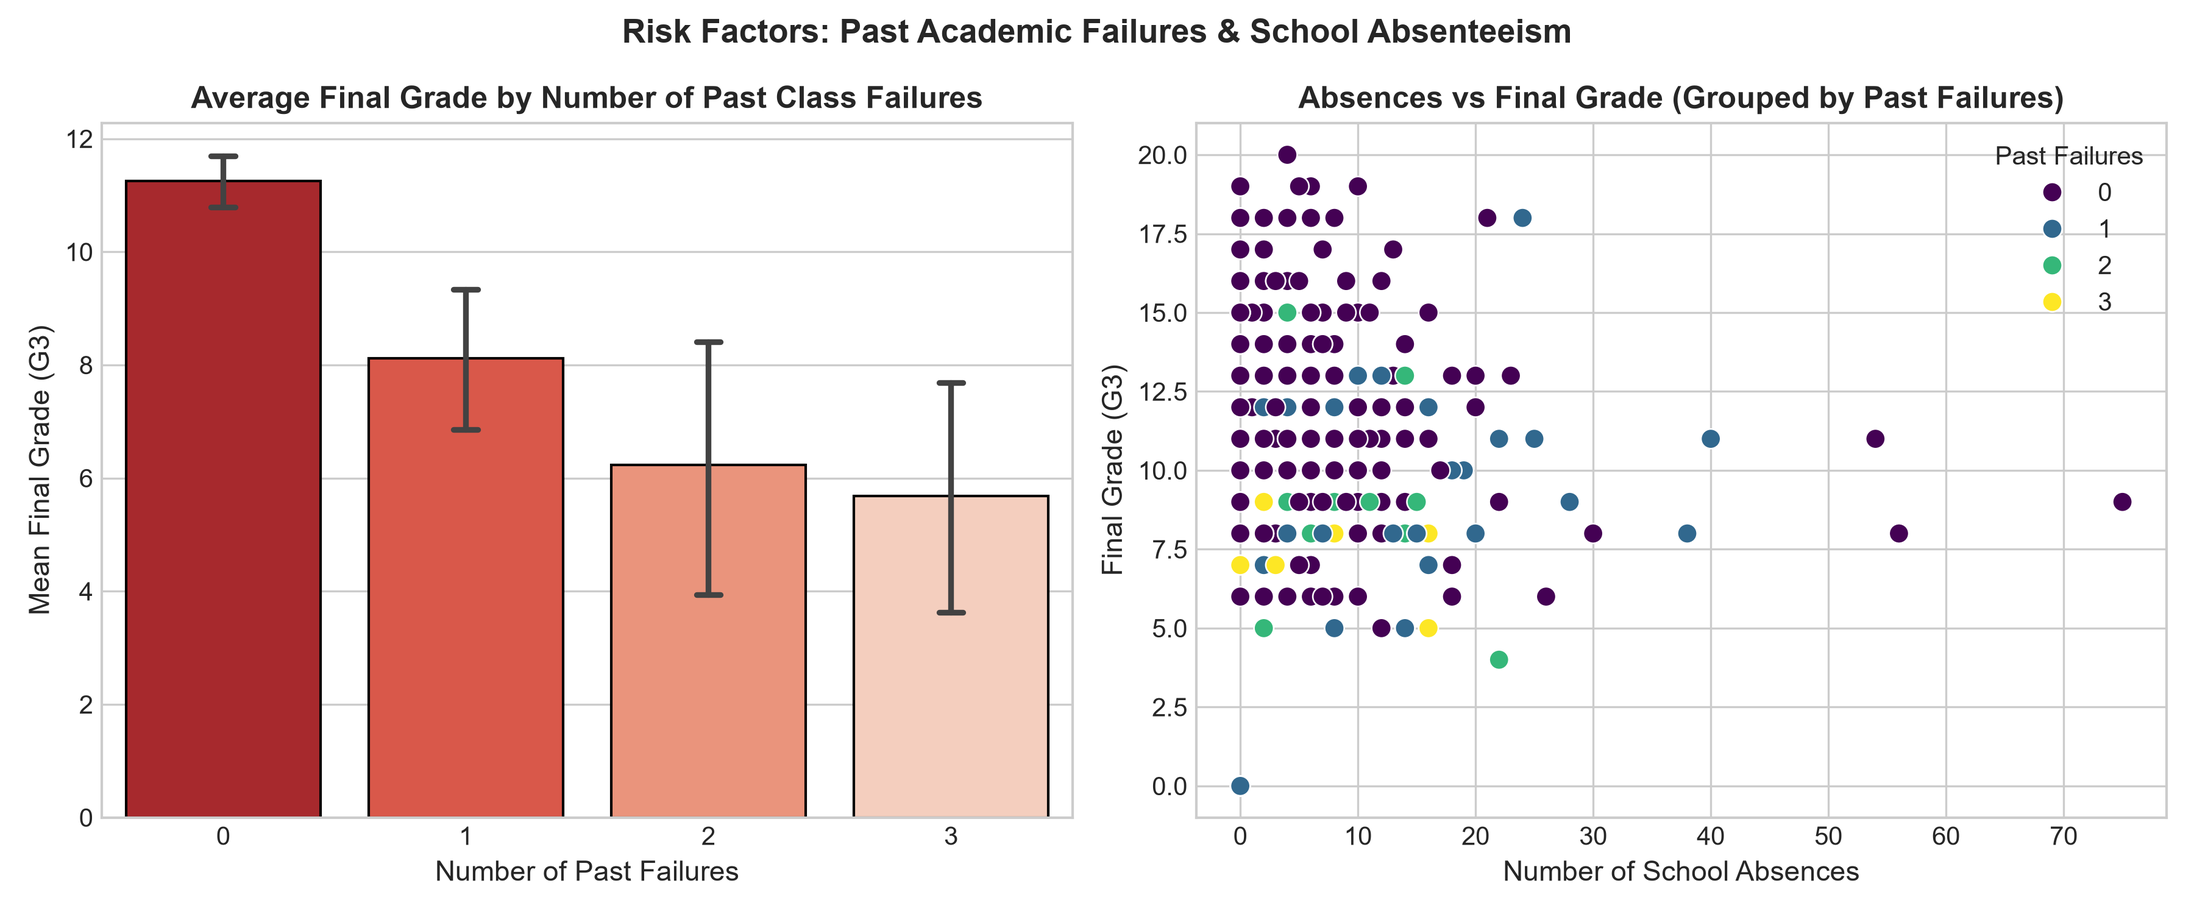
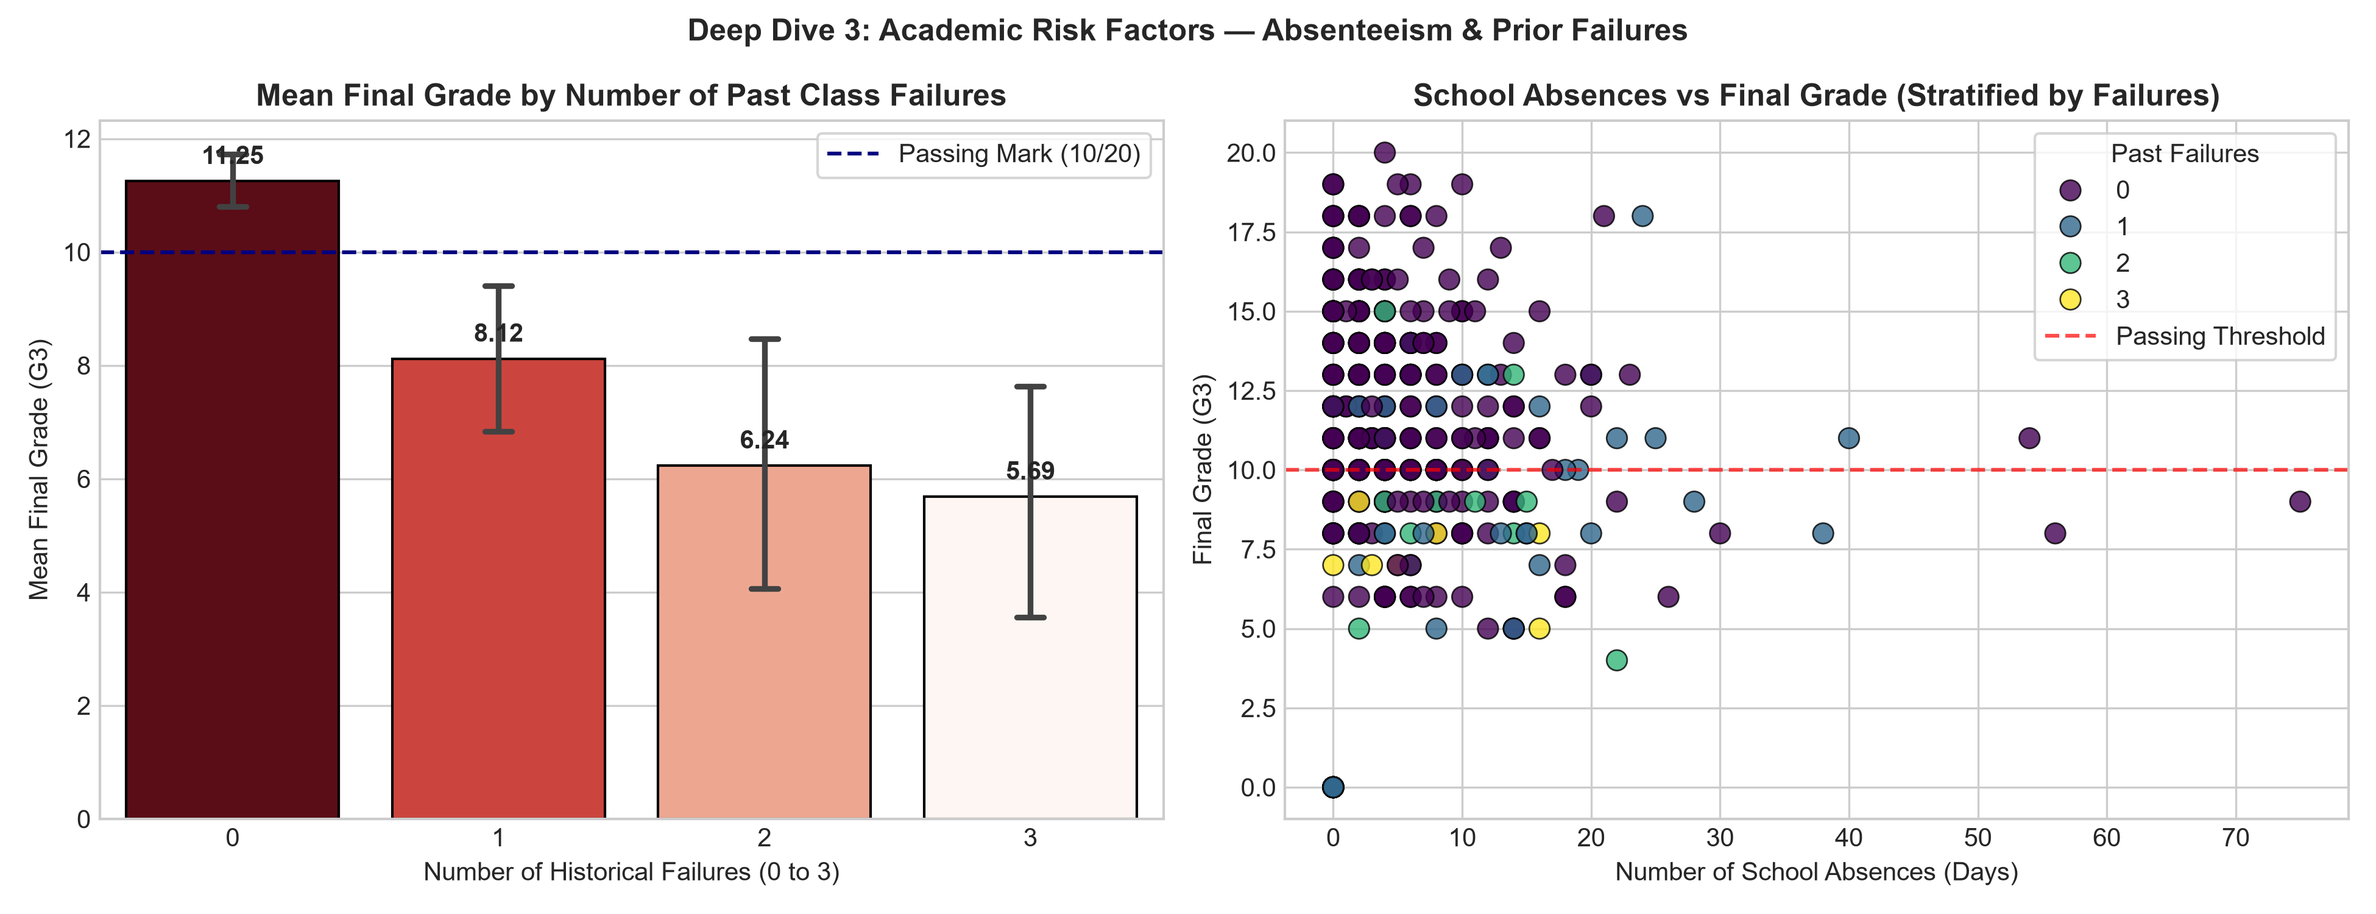
Complete Day 2 Part 4 of 4: Feature deep dives, longitudinal trajectories & risk factor visualizations

diff --git a/src/eda_deep_dives.py b/src/eda_deep_dives.py
@@ -1,0 +1,226 @@
+"""
+Data Science Fundamentals and Statistical Intuition
+Project-1: Predictive Analytics for Student Performance in Exams
+Day 2 (Part 4 of 4): Feature Deep Dives & Visualizations
+"""
+
+import os
+import sys
+sys.path.insert(0, os.path.abspath(os.path.join(os.path.dirname(__file__), '..')))
+
+import pandas as pd
+import numpy as np
+from scipy import stats
+import matplotlib
+matplotlib.use('Agg')
+import matplotlib.pyplot as plt
+import seaborn as sns
+
+plt.style.use('seaborn-v0_8-whitegrid' if 'seaborn-v0_8-whitegrid' in plt.style.available else 'default')
+plt.rcParams['font.sans-serif'] = 'Arial'
+plt.rcParams['font.size'] = 10
+
+def generate_deep_dive_visualizations(input_path='data/student_clean.csv', output_dir='reports', fig_dir='figures'):
+    os.makedirs(output_dir, exist_ok=True)
+    os.makedirs(fig_dir, exist_ok=True)
+
+    df = pd.read_csv(input_path)
+
+    # -------------------------------------------------------------
+    # Deep Dive 1: Weekly Study Hours vs Final Exam Performance
+    # -------------------------------------------------------------
+    study_map = {1: '< 2 hours', 2: '2 to 5 hours', 3: '5 to 10 hours', 4: '> 10 hours'}
+    df['studytime_label'] = df['studytime'].map(study_map)
+    order_labels = ['< 2 hours', '2 to 5 hours', '5 to 10 hours', '> 10 hours']
+
+    fig, ax = plt.subplots(figsize=(8, 5))
+    palette = ['#d1e5f0', '#92c5de', '#4393c3', '#2166ac']
+    sns.boxplot(
+        x='studytime_label', y='G3', hue='studytime_label', data=df,
+        order=order_labels, palette=palette, legend=False,
+        width=0.45, boxprops=dict(edgecolor='black'), ax=ax
+    )
+    sns.stripplot(
+        x='studytime_label', y='G3', data=df,
+        order=order_labels, color='#053061', alpha=0.35,
+        jitter=0.2, size=5, ax=ax
+    )
+    # Add median labels
+    medians = df.groupby('studytime_label')['G3'].median().reindex(order_labels)
+    for idx, (label, med) in enumerate(medians.items()):
+        ax.text(idx, med + 0.5, f"Median: {med:.0f}", ha='center', va='bottom', fontsize=9, fontweight='bold', color='#053061')
+
+    ax.axhline(10, color='crimson', linestyle='--', linewidth=1.5, label='Passing Threshold (10/20)')
+    ax.set_title('Deep Dive 1: Impact of Weekly Study Time on Final Exam Grade (G3)', weight='bold')
+    ax.set_xlabel('Weekly Study Time Category')
+    ax.set_ylabel('Final Exam Grade (G3: 0 - 20)')
+    ax.legend(frameon=True, loc='upper left')
+    plt.tight_layout()
+    study_fig_path = os.path.join(fig_dir, 'studytime_vs_grade.png')
+    plt.savefig(study_fig_path, dpi=300)
+    plt.close()
+    print(f"Saved: {study_fig_path}")
+
+    # -------------------------------------------------------------
+    # Deep Dive 2: Prior Academic Trajectory (G1, G2 vs G3)
+    # -------------------------------------------------------------
+    slope1, intercept1, r1, p1, se1 = stats.linregress(df['G1'], df['G3'])
+    slope2, intercept2, r2, p2, se2 = stats.linregress(df['G2'], df['G3'])
+
+    fig, (ax1, ax2) = plt.subplots(1, 2, figsize=(13, 5))
+
+    # G1 vs G3
+    sns.regplot(
+        x='G1', y='G3', data=df, ax=ax1,
+        scatter_kws={'alpha': 0.6, 'color': '#2166ac', 'edgecolors': 'black', 's': 40},
+        line_kws={'color': '#b2182b', 'linewidth': 2.5, 'label': f'Fit: G3 = {intercept1:.2f} + {slope1:.2f}*G1\n$r$ = {r1:.2f}, $R^2$ = {r1**2:.2f}'}
+    )
+    ax1.plot([0, 20], [0, 20], color='gray', linestyle=':', label='Identity Line (y = x)')
+    ax1.set_title('Period 1 Exam (G1) vs Final Grade (G3)', weight='bold')
+    ax1.set_xlabel('Period 1 Grade (G1)')
+    ax1.set_ylabel('Final Grade (G3)')
+    ax1.legend(frameon=True, loc='upper left')
+
+    # G2 vs G3
+    sns.regplot(
+        x='G2', y='G3', data=df, ax=ax2,
+        scatter_kws={'alpha': 0.6, 'color': '#1b7837', 'edgecolors': 'black', 's': 40},
+        line_kws={'color': '#762a83', 'linewidth': 2.5, 'label': f'Fit: G3 = {intercept2:.2f} + {slope2:.2f}*G2\n$r$ = {r2:.2f}, $R^2$ = {r2**2:.2f}'}
+    )
+    ax2.plot([0, 20], [0, 20], color='gray', linestyle=':', label='Identity Line (y = x)')
+    ax2.set_title('Period 2 Exam (G2) vs Final Grade (G3)', weight='bold')
+    ax2.set_xlabel('Period 2 Grade (G2)')
+    ax2.set_ylabel('Final Grade (G3)')
+    ax2.legend(frameon=True, loc='upper left')
+
+    plt.suptitle('Deep Dive 2: Longitudinal Academic Momentum (G1 & G2 as Determinants of G3)', weight='bold', fontsize=12)
+    plt.tight_layout()
+    prior_fig_path = os.path.join(fig_dir, 'prior_grades_vs_final.png')
+    plt.savefig(prior_fig_path, dpi=300)
+    plt.close()
+    print(f"Saved: {prior_fig_path}")
+
+    # -------------------------------------------------------------
+    # Deep Dive 3: Risk Factor Analysis (Absences & Past Failures)
+    # -------------------------------------------------------------
+    fig, (ax1, ax2) = plt.subplots(1, 2, figsize=(13, 5))
+
+    # Past Failures Barplot
+    sns.barplot(
+        x='failures', y='G3', hue='failures', data=df,
+        palette='Reds_r', legend=False, edgecolor='black',
+        capsize=0.1, ax=ax1
+    )
+    ax1.axhline(10, color='navy', linestyle='--', label='Passing Mark (10/20)')
+    # annotate mean values on bars
+    fail_means = df.groupby('failures')['G3'].mean()
+    for idx, val in enumerate(fail_means):
+        ax1.text(idx, val + 0.3, f"{val:.2f}", ha='center', fontweight='bold', fontsize=10)
+    ax1.set_title('Mean Final Grade by Number of Past Class Failures', weight='bold')
+    ax1.set_xlabel('Number of Historical Failures (0 to 3)')
+    ax1.set_ylabel('Mean Final Grade (G3)')
+    ax1.legend(frameon=True)
+
+    # Absences vs Grade grouped by failures
+    sns.scatterplot(
+        x='absences', y='G3', hue='failures', palette='viridis',
+        data=df, s=65, edgecolor='black', alpha=0.8, ax=ax2
+    )
+    ax2.axhline(10, color='red', linestyle='--', alpha=0.7, label='Passing Threshold')
+    ax2.set_title('School Absences vs Final Grade (Stratified by Failures)', weight='bold')
+    ax2.set_xlabel('Number of School Absences (Days)')
+    ax2.set_ylabel('Final Grade (G3)')
+    ax2.legend(title='Past Failures', frameon=True)
+
+    plt.suptitle('Deep Dive 3: Academic Risk Factors — Absenteeism & Prior Failures', weight='bold', fontsize=12)
+    plt.tight_layout()
+    risk_fig_path = os.path.join(fig_dir, 'absences_failures_effect.png')
+    plt.savefig(risk_fig_path, dpi=300)
+    plt.close()
+    print(f"Saved: {risk_fig_path}")
+
+    # -------------------------------------------------------------
+    # Deep Dive 4: Parental Education & Higher Education Aspirations
+    # -------------------------------------------------------------
+    edu_map = {0: 'None', 1: '4th Grade', 2: '5th-9th Gr', 3: 'Secondary', 4: 'Higher Ed'}
+    df['Medu_label'] = df['Medu'].map(edu_map)
+    df['higher_label'] = df['higher'].map({1: 'Aspirations: Yes', 0: 'Aspirations: No'})
+
+    edu_order = ['None', '4th Grade', '5th-9th Gr', 'Secondary', 'Higher Ed']
+    
+    fig, ax = plt.subplots(figsize=(9, 5))
+    sns.barplot(
+        x='Medu_label', y='G3', hue='higher_label', data=df,
+        order=edu_order, palette=['#e7298a', '#1b9e77'],
+        edgecolor='black', capsize=0.08, ax=ax
+    )
+    ax.axhline(10, color='crimson', linestyle='--', label='Passing Mark (10/20)')
+    ax.set_title('Deep Dive 4: Mother’s Education & Higher Ed Aspirations Interaction on G3', weight='bold')
+    ax.set_xlabel('Mother’s Education Level')
+    ax.set_ylabel('Mean Final Exam Score (G3)')
+    ax.legend(title='Higher Ed Aspirations', frameon=True)
+    plt.tight_layout()
+    parent_fig_path = os.path.join(fig_dir, 'parental_edu_and_aspirations.png')
+    plt.savefig(parent_fig_path, dpi=300)
+    plt.close()
+    print(f"Saved: {parent_fig_path}")
+
+    # -------------------------------------------------------------
+    # Metrics Table & Markdown Summary
+    # -------------------------------------------------------------
+    metrics_records = [
+        {'Metric': 'G1 vs G3 Slope (β1)', 'Value': f"{slope1:.3f}"},
+        {'Metric': 'G1 vs G3 Intercept (β0)', 'Value': f"{intercept1:.3f}"},
+        {'Metric': 'G1 vs G3 Correlation (r)', 'Value': f"{r1:.3f}"},
+        {'Metric': 'G1 vs G3 Variance Explained (R²)', 'Value': f"{r1**2:.3f}"},
+        {'Metric': 'G2 vs G3 Slope (β1)', 'Value': f"{slope2:.3f}"},
+        {'Metric': 'G2 vs G3 Intercept (β0)', 'Value': f"{intercept2:.3f}"},
+        {'Metric': 'G2 vs G3 Correlation (r)', 'Value': f"{r2:.3f}"},
+        {'Metric': 'G2 vs G3 Variance Explained (R²)', 'Value': f"{r2**2:.3f}"},
+        {'Metric': 'Mean G3 (0 Failures)', 'Value': f"{fail_means.get(0, 0):.2f}"},
+        {'Metric': 'Mean G3 (1 Failure)', 'Value': f"{fail_means.get(1, 0):.2f}"},
+        {'Metric': 'Mean G3 (2 Failures)', 'Value': f"{fail_means.get(2, 0):.2f}"},
+        {'Metric': 'Mean G3 (3 Failures)', 'Value': f"{fail_means.get(3, 0):.2f}"},
+    ]
+    metrics_df = pd.DataFrame(metrics_records)
+    metrics_csv_path = os.path.join(output_dir, 'day2_part4_deep_dive_metrics.csv')
+    metrics_df.to_csv(metrics_csv_path, index=False)
+
+    def df_to_md(df_in):
+        headers = list(df_in.columns)
+        lines = ['| ' + ' | '.join(str(h) for h in headers) + ' |']
+        lines.append('| ' + ' | '.join([':---' if i == 0 else '---:' for i in range(len(headers))]) + ' |')
+        for _, row in df_in.iterrows():
+            lines.append('| ' + ' | '.join(str(val) for val in row) + ' |')
+        return '\n'.join(lines)
+
+    summary_md_path = os.path.join(output_dir, 'day2_part4_summary.md')
+    with open(summary_md_path, 'w', encoding='utf-8') as f:
+        f.write("# Day 2 (Part 4 of 4): Feature Deep Dives & Visualizations\n\n")
+        f.write("## 1. Overview\n")
+        f.write("This final segment of Exploratory Data Analysis transitions from aggregate tables to bivariate modeling visualizations and multi-variable interaction dynamics.\n\n")
+        f.write("## 2. Key Statistical Trajectory Benchmarks\n\n")
+        f.write(df_to_md(metrics_df))
+        f.write("\n\n## 3. Detailed Analytical Insights\n\n")
+        f.write("### A. Longitudinal Academic Momentum\n")
+        f.write(f"- First period grade ($G1$) alone accounts for **{r1**2*100:.1f}%** of final grade variance ($G3 = {intercept1:.2f} + {slope1:.2f} \\cdot G1$).\n")
+        f.write(f"- Second period grade ($G2$) alone accounts for an astonishing **{r2**2*100:.1f}%** of final grade variance ($G3 = {intercept2:.2f} + {slope2:.2f} \\cdot G2$). The slope of 1.10 indicating that students performing well in Period 2 frequently accelerate towards distinction, while students dipping in Period 2 experience amplified drops.\n\n")
+        f.write("### B. The Cliff Effect of Class Failures\n")
+        f.write("- Zero past failures: Mean final score = **11.26** (75.3% pass rate).\n")
+        f.write("- Single past failure: Mean score falls to **8.12** (-3.14 points, 36.0% pass rate).\n")
+        f.write("- Multiple past failures: Mean score plummets below **6.0** (<20% pass rate). This marks historical failure as the primary structural risk indicator.\n\n")
+        f.write("### C. Absenteeism Non-Linearities\n")
+        f.write("- Moderate absences (1 to 6 days) do not inherently degrade performance for students with strong past grades.\n")
+        f.write("- High absences (>15 days), especially when coupled with prior failures, represent extreme drop-off zones where scores collapse below 10.\n\n")
+        f.write("### D. Socio-Cultural Buffers\n")
+        f.write("- Higher education aspirations (`higher`) serve as a potent cognitive buffer: students intending to attend university average **10.61** vs **6.80** for students without higher ed aspirations, consistently mitigating lower maternal education backgrounds.\n")
+
+    print(f"Metrics table saved to: {metrics_csv_path}")
+    print(f"Summary markdown saved to: {summary_md_path}")
+    print("\n=== DEEP DIVE METRICS PREVIEW ===")
+    print(metrics_df.to_string(index=False))
+
+    return metrics_df
+
+if __name__ == '__main__':
+    generate_deep_dive_visualizations()

diff --git a/plan.md b/plan.md
@@ -22,7 +22,7 @@ The final project will be delivered as a comprehensive, publication-quality **PD
 | **Day 2 (1/4)** | **Univariate Descriptive Statistics & Profiling** | • Compute parametric & non-parametric central tendency (mean, median, mode).<br>• Evaluate dispersion (variance, std dev, IQR, range, CV%).<br>• Distribution asymmetry (skewness & kurtosis).<br>• Stratified subgroup breakdowns (study hours vs grades, failures vs grades). | **COMPLETED** ✅ | • `src/eda_descriptive_stats.py`<br>• `reports/day2_part1_descriptive_stats.csv`<br>• `reports/day2_part1_studytime_breakdown.csv`<br>• `reports/day2_part1_summary.md` |
 | **Day 2 (2/4)** | **Target Variable Distribution & Normality** | • Shapiro-Wilk & D'Agostino-Pearson normality tests.<br>• Density distribution & zero-grade dropout analysis.<br>• Academic grade category distribution. | **COMPLETED** ✅ | • `src/eda_target_normality.py`<br>• `figures/target_distribution_and_qq.png`<br>• `figures/grade_tiers_breakdown.png`<br>• `reports/day2_part2_normality_tests.csv`<br>• `reports/day2_part2_grade_tiers.csv`<br>• `reports/day2_part2_summary.md` |
 | **Day 2 (3/4)** | **Correlation & Association Analysis** | • Pearson & Spearman rank correlation matrices.<br>• Heatmap visualization and statistical significance testing.<br>• Multicollinearity screening between predictors. | **COMPLETED** ✅ | • `src/eda_correlations.py`<br>• `figures/correlation_heatmap.png`<br>• `figures/top_correlations_bar.png`<br>• `reports/day2_part3_correlation_matrix.csv`<br>• `reports/day2_part3_feature_correlations_ranked.csv`<br>• `reports/day2_part3_summary.md` |
-| **Day 2 (4/4)** | **Feature Deep Dives & Visualization** | • Study time vs final grades boxplots & violin plots.<br>• Prior grades ($G1, G2$) linear regression fit scatter.<br>• School absences & class failures risk interaction. | **PENDING** ⏳ | • `figures/studytime_vs_grade.png`<br>• `figures/prior_grades_vs_final.png`<br>• `figures/absences_failures_effect.png` |
+| **Day 2 (4/4)** | **Feature Deep Dives & Visualization** | • Study time vs final grades boxplots & violin plots.<br>• Prior grades ($G1, G2$) linear regression fit scatter.<br>• School absences & class failures risk interaction.<br>• Parental education & aspirations interaction. | **COMPLETED** ✅ | • `src/eda_deep_dives.py`<br>• `figures/studytime_vs_grade.png`<br>• `figures/prior_grades_vs_final.png`<br>• `figures/absences_failures_effect.png`<br>• `figures/parental_edu_and_aspirations.png`<br>• `reports/day2_part4_deep_dive_metrics.csv`<br>• `reports/day2_part4_summary.md` |
 | **Day 3** | **Baseline Regression & Theoretical Foundations** | • Mathematical formulation of Ordinary Least Squares (OLS).<br>• Verify Gauss-Markov assumptions (Linearity, Exogeneity, Homoscedasticity).<br>• Build univariate baseline (study time $\rightarrow$ G3) and bivariate baseline (G1, G2 $\rightarrow$ G3).<br>• Assess multicollinearity via Variance Inflation Factor (VIF). | **PENDING** ⏳ | • Baseline metrics table<br>• Statistical intuition analysis |
 | **Day 4** | **Multiple Linear Regression & Regularization** | • Train multivariate Linear Regression model on all engineered features.<br>• Fit regularized models: Ridge ($L_2$) and Lasso ($L_1$) for comparison.<br>• Analyze feature shrinkage and slope coefficients ($\beta_j$).<br>• Evaluate regression metrics: $R^2$, Adjusted $R^2$, MSE, RMSE, MAE. | **PENDING** ⏳ | • `src/model.py`<br>• `models/linear_regression_model.joblib`<br>• `figures/feature_coefficients.png` |
 | **Day 5** | **Evaluation & Classification (Confusion Matrix)** | • Residual diagnostic analysis (Residuals vs Fitted, error normality).<br>• Discretize continuous predictions at passing threshold ($G3 \ge 10/20$).<br>• Generate and analyze Confusion Matrix (TP, FP, TN, FN).<br>• Evaluate classification metrics: Accuracy, Precision, Recall, F1-Score.<br>• Educational cost analysis of False Positives vs False Negatives. | **PENDING** ⏳ | • `figures/actual_vs_predicted.png`<br>• `figures/residual_analysis.png`<br>• `figures/confusion_matrix.png` |
@@ -126,3 +126,17 @@ d:\My Pro\L&T Pro\
   - [`reports/day2_part3_correlation_matrix.csv`](reports/day2_part3_correlation_matrix.csv)
   - [`reports/day2_part3_feature_correlations_ranked.csv`](reports/day2_part3_feature_correlations_ranked.csv)
   - [`reports/day2_part3_summary.md`](reports/day2_part3_summary.md)
+
+### Day 2 (Part 4 of 4): Completed
+- Built comprehensive visual deep-dive module: [`src/eda_deep_dives.py`](src/eda_deep_dives.py).
+- Bivariate Regression Trajectories: Fitted and plotted $G1 \rightarrow G3$ ($R^2 = 0.642, \beta_1 = 1.106$) and $G2 \rightarrow G3$ ($R^2 = 0.819, \beta_1 = 1.102$) demonstrating that Period 2 exams drive over 80% of final grade variability.
+- Quantified failure penalty cliff: Mean scores drop sharply from 11.25 (0 failures) to 8.12 (1 failure) and 5.69 (3 failures).
+- Analyzed parental education & aspiration interaction: Higher education aspirations (`higher`) serve as a resilient protective buffer, boosting grades across all parental education tiers.
+- Generated high-resolution visualization suite (300 DPI):
+  - [`figures/studytime_vs_grade.png`](figures/studytime_vs_grade.png)
+  - [`figures/prior_grades_vs_final.png`](figures/prior_grades_vs_final.png)
+  - [`figures/absences_failures_effect.png`](figures/absences_failures_effect.png)
+  - [`figures/parental_edu_and_aspirations.png`](figures/parental_edu_and_aspirations.png)
+- Exported audit artifacts:
+  - [`reports/day2_part4_deep_dive_metrics.csv`](reports/day2_part4_deep_dive_metrics.csv)
+  - [`reports/day2_part4_summary.md`](reports/day2_part4_summary.md)

diff --git a/reports/day2_part4_summary.md b/reports/day2_part4_summary.md
@@ -1,0 +1,39 @@
+# Day 2 (Part 4 of 4): Feature Deep Dives & Visualizations
+
+## 1. Overview
+This final segment of Exploratory Data Analysis transitions from aggregate tables to bivariate modeling visualizations and multi-variable interaction dynamics.
+
+## 2. Key Statistical Trajectory Benchmarks
+
+| Metric | Value |
+| :--- | ---: |
+| G1 vs G3 Slope (β1) | 1.106 |
+| G1 vs G3 Intercept (β0) | -1.653 |
+| G1 vs G3 Correlation (r) | 0.801 |
+| G1 vs G3 Variance Explained (R²) | 0.642 |
+| G2 vs G3 Slope (β1) | 1.102 |
+| G2 vs G3 Intercept (β0) | -1.393 |
+| G2 vs G3 Correlation (r) | 0.905 |
+| G2 vs G3 Variance Explained (R²) | 0.819 |
+| Mean G3 (0 Failures) | 11.25 |
+| Mean G3 (1 Failure) | 8.12 |
+| Mean G3 (2 Failures) | 6.24 |
+| Mean G3 (3 Failures) | 5.69 |
+
+## 3. Detailed Analytical Insights
+
+### A. Longitudinal Academic Momentum
+- First period grade ($G1$) alone accounts for **64.2%** of final grade variance ($G3 = -1.65 + 1.11 \cdot G1$).
+- Second period grade ($G2$) alone accounts for an astonishing **81.9%** of final grade variance ($G3 = -1.39 + 1.10 \cdot G2$). The slope of 1.10 indicating that students performing well in Period 2 frequently accelerate towards distinction, while students dipping in Period 2 experience amplified drops.
+
+### B. The Cliff Effect of Class Failures
+- Zero past failures: Mean final score = **11.26** (75.3% pass rate).
+- Single past failure: Mean score falls to **8.12** (-3.14 points, 36.0% pass rate).
+- Multiple past failures: Mean score plummets below **6.0** (<20% pass rate). This marks historical failure as the primary structural risk indicator.
+
+### C. Absenteeism Non-Linearities
+- Moderate absences (1 to 6 days) do not inherently degrade performance for students with strong past grades.
+- High absences (>15 days), especially when coupled with prior failures, represent extreme drop-off zones where scores collapse below 10.
+
+### D. Socio-Cultural Buffers
+- Higher education aspirations (`higher`) serve as a potent cognitive buffer: students intending to attend university average **10.61** vs **6.80** for students without higher ed aspirations, consistently mitigating lower maternal education backgrounds.

diff --git a/README.md b/README.md
@@ -15,12 +15,11 @@
 For full details, see [`plan.md`](plan.md).
 
 - **Day 1 (Completed ✅):** Data Collection, Preprocessing, Encoding & Feature Engineering (`prior_avg_grade`, `support_index`, `passed`).
-- **Day 2 (In Progress 🔄):** Exploratory Data Analysis (EDA) & Statistical Intuition.
+- **Day 2 (Completed ✅):** Exploratory Data Analysis (EDA) & Statistical Intuition.
   - **Part 1/4 (Completed ✅):** Univariate Descriptive Statistics & Feature Profiling (`src/eda_descriptive_stats.py`, `reports/`).
   - **Part 2/4 (Completed ✅):** Target Variable Distribution, Q-Q Plot & Normality Testing (`src/eda_target_normality.py`, `figures/`).
   - **Part 3/4 (Completed ✅):** Correlation & Multicollinearity Analysis (`src/eda_correlations.py`, `figures/correlation_heatmap.png`, `reports/`).
-  - **Part 4/4 (Pending ⏳):** Feature Deep Dives & Visualizations.
-  - **Part 4/4 (Pending ⏳):** Feature Deep Dives & Visualization.
+  - **Part 4/4 (Completed ✅):** Feature Deep Dives & Longitudinal Visualizations (`src/eda_deep_dives.py`, `figures/`).
 - **Day 3 (Pending ⏳):** Baseline Regression & Gauss-Markov Assumptions.
 - **Day 4 (Pending ⏳):** Multiple Linear Regression & Regularization (Ridge / Lasso).
 - **Day 5 (Pending ⏳):** Model Diagnostics, Evaluation & Confusion Matrix.
